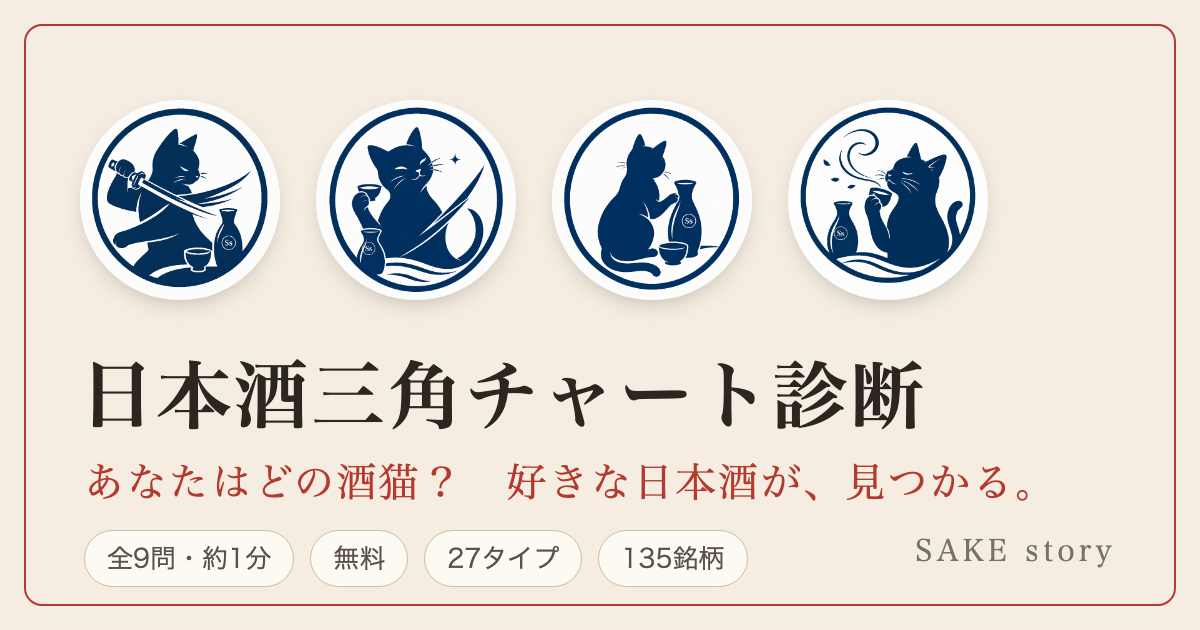
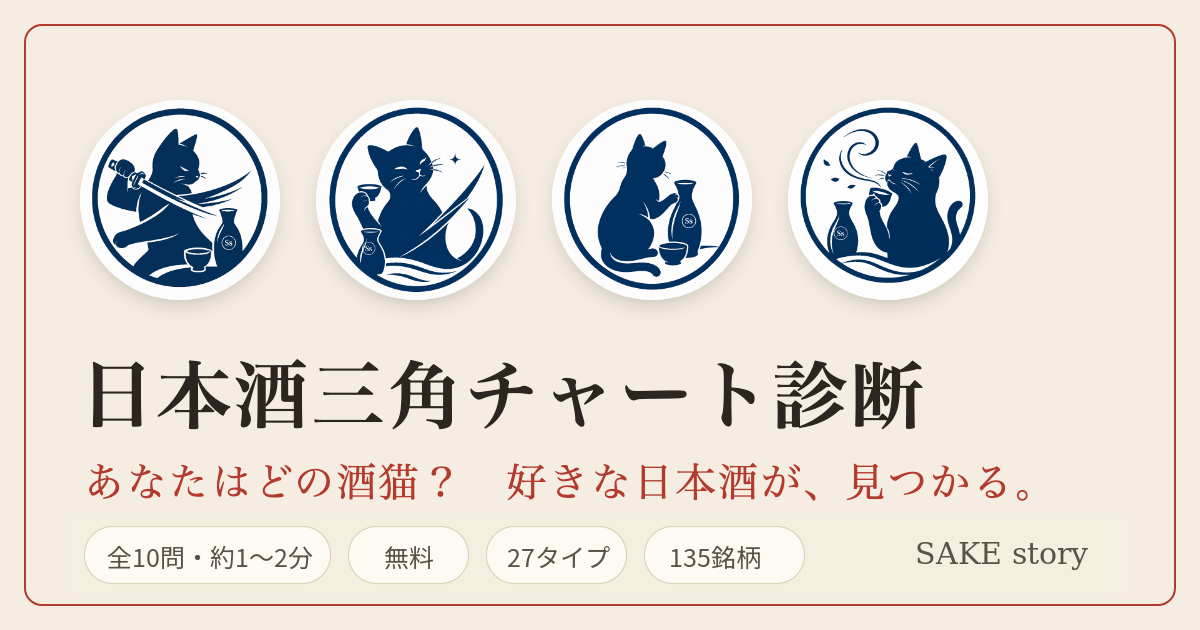
Add files via upload

Changed region(s): [[0.0925, 0.8143, 0.6475, 0.9349], [0.74, 0.8444, 0.925, 0.9048]]

diff --git a/en/index.html b/en/index.html
@@ -1,0 +1,47 @@
+<!doctype html>
+<html lang="en">
+<head>
+  <meta charset="utf-8">
+  <meta name="viewport" content="width=device-width,initial-scale=1">
+  <title>Sake Triangle Chart Quiz — Find Your Sake Cat</title>
+  <meta name="description" content="A free 10-question quiz built from 20 years of helping guests choose sake in Tokyo. Discover your taste on three axes, meet your Sake Cat, and find bottles to try.">
+  <link rel="canonical" href="https://shindan.sake-story.com/en/">
+  <link rel="alternate" hreflang="ja" href="https://shindan.sake-story.com/">
+  <link rel="alternate" hreflang="en" href="https://shindan.sake-story.com/en/">
+  <link rel="alternate" hreflang="zh-Hans" href="https://shindan.sake-story.com/zh-cn/">
+  <link rel="alternate" hreflang="zh-Hant" href="https://shindan.sake-story.com/zh-tw/">
+  <link rel="alternate" hreflang="ko" href="https://shindan.sake-story.com/ko/">
+  <link rel="alternate" hreflang="x-default" href="https://shindan.sake-story.com/">
+  <meta property="og:type" content="website">
+  <meta property="og:site_name" content="SAKE story">
+  <meta property="og:title" content="Which Sake Cat Are You?">
+  <meta property="og:description" content="A free 10-question quiz built from 20 years of helping guests choose sake in Tokyo. Find your taste in 1–2 minutes.">
+  <meta property="og:url" content="https://shindan.sake-story.com/en/">
+  <meta property="og:locale" content="en_US">
+  <meta property="og:locale:alternate" content="ja_JP">
+  <meta property="og:locale:alternate" content="zh_CN">
+  <meta property="og:locale:alternate" content="zh_TW">
+  <meta property="og:locale:alternate" content="ko_KR">
+  <meta property="og:image" content="https://shindan.sake-story.com/ogp-en.png">
+  <meta property="og:image:width" content="1200">
+  <meta property="og:image:height" content="630">
+  <meta property="og:image:alt" content="Which Sake Cat Are You? 10 questions, 1–2 minutes, free.">
+  <meta name="twitter:card" content="summary_large_image">
+  <meta name="twitter:title" content="Which Sake Cat Are You?">
+  <meta name="twitter:description" content="Find the sake that fits your taste in 10 questions.">
+  <meta name="twitter:image" content="https://shindan.sake-story.com/ogp-en.png">
+  <meta http-equiv="refresh" content="0;url=../?lang=en">
+  <script>
+    (function () {
+      var params = new URLSearchParams(location.search);
+      params.set('lang', 'en');
+      var target = new URL('../', location.href);
+      target.search = params.toString();
+      location.replace(target.href);
+    }());
+  </script>
+</head>
+<body>
+  <p><a href="../?lang=en">Start the Sake Triangle Chart Quiz</a></p>
+</body>
+</html>

diff --git a/ko/index.html b/ko/index.html
@@ -1,0 +1,47 @@
+<!doctype html>
+<html lang="ko">
+<head>
+  <meta charset="utf-8">
+  <meta name="viewport" content="width=device-width,initial-scale=1">
+  <title>사케 삼각 차트 진단｜나의 사케냥 찾기</title>
+  <meta name="description" content="도쿄의 사케 바 주인이 20년간 쌓은 경험으로 만든 무료 진단입니다. 10문항으로 깔끔함, 과일향, 진한 맛의 세 축에서 취향에 맞는 사케를 찾아보세요.">
+  <link rel="canonical" href="https://shindan.sake-story.com/ko/">
+  <link rel="alternate" hreflang="ja" href="https://shindan.sake-story.com/">
+  <link rel="alternate" hreflang="en" href="https://shindan.sake-story.com/en/">
+  <link rel="alternate" hreflang="zh-Hans" href="https://shindan.sake-story.com/zh-cn/">
+  <link rel="alternate" hreflang="zh-Hant" href="https://shindan.sake-story.com/zh-tw/">
+  <link rel="alternate" hreflang="ko" href="https://shindan.sake-story.com/ko/">
+  <link rel="alternate" hreflang="x-default" href="https://shindan.sake-story.com/">
+  <meta property="og:type" content="website">
+  <meta property="og:site_name" content="SAKE story">
+  <meta property="og:title" content="당신은 어떤 사케냥인가요?">
+  <meta property="og:description" content="10문항, 약 1~2분. 깔끔함, 과일향, 진한 맛의 세 축에서 취향에 맞는 사케를 찾아보세요.">
+  <meta property="og:url" content="https://shindan.sake-story.com/ko/">
+  <meta property="og:locale" content="ko_KR">
+  <meta property="og:locale:alternate" content="ja_JP">
+  <meta property="og:locale:alternate" content="en_US">
+  <meta property="og:locale:alternate" content="zh_CN">
+  <meta property="og:locale:alternate" content="zh_TW">
+  <meta property="og:image" content="https://shindan.sake-story.com/ogp-ko.png">
+  <meta property="og:image:width" content="1200">
+  <meta property="og:image:height" content="630">
+  <meta property="og:image:alt" content="당신은 어떤 사케냥인가요? 10문항, 약 1~2분, 무료.">
+  <meta name="twitter:card" content="summary_large_image">
+  <meta name="twitter:title" content="당신은 어떤 사케냥인가요?">
+  <meta name="twitter:description" content="10문항으로 내 취향에 맞는 사케를 찾아보세요.">
+  <meta name="twitter:image" content="https://shindan.sake-story.com/ogp-ko.png">
+  <meta http-equiv="refresh" content="0;url=../?lang=ko">
+  <script>
+    (function () {
+      var params = new URLSearchParams(location.search);
+      params.set('lang', 'ko');
+      var target = new URL('../', location.href);
+      target.search = params.toString();
+      location.replace(target.href);
+    }());
+  </script>
+</head>
+<body>
+  <p><a href="../?lang=ko">사케 삼각 차트 진단 시작하기</a></p>
+</body>
+</html>

diff --git a/zh-cn/index.html b/zh-cn/index.html
@@ -1,0 +1,47 @@
+<!doctype html>
+<html lang="zh-Hans">
+<head>
+  <meta charset="utf-8">
+  <meta name="viewport" content="width=device-width,initial-scale=1">
+  <title>清酒三角图测试｜找到你的酒猫</title>
+  <meta name="description" content="东京店主把20年的选酒经验做成免费测试。回答10道题，从清爽、果香、醇厚三个方向找到你的酒猫和适合的清酒。">
+  <link rel="canonical" href="https://shindan.sake-story.com/zh-cn/">
+  <link rel="alternate" hreflang="ja" href="https://shindan.sake-story.com/">
+  <link rel="alternate" hreflang="en" href="https://shindan.sake-story.com/en/">
+  <link rel="alternate" hreflang="zh-Hans" href="https://shindan.sake-story.com/zh-cn/">
+  <link rel="alternate" hreflang="zh-Hant" href="https://shindan.sake-story.com/zh-tw/">
+  <link rel="alternate" hreflang="ko" href="https://shindan.sake-story.com/ko/">
+  <link rel="alternate" hreflang="x-default" href="https://shindan.sake-story.com/">
+  <meta property="og:type" content="website">
+  <meta property="og:site_name" content="SAKE story">
+  <meta property="og:title" content="你是哪只酒猫？">
+  <meta property="og:description" content="回答10道题，约1～2分钟，从清爽、果香、醇厚三个方向找到适合你的清酒。">
+  <meta property="og:url" content="https://shindan.sake-story.com/zh-cn/">
+  <meta property="og:locale" content="zh_CN">
+  <meta property="og:locale:alternate" content="ja_JP">
+  <meta property="og:locale:alternate" content="en_US">
+  <meta property="og:locale:alternate" content="zh_TW">
+  <meta property="og:locale:alternate" content="ko_KR">
+  <meta property="og:image" content="https://shindan.sake-story.com/ogp-zh-cn.png">
+  <meta property="og:image:width" content="1200">
+  <meta property="og:image:height" content="630">
+  <meta property="og:image:alt" content="你是哪只酒猫？10道题、约1～2分钟、免费。">
+  <meta name="twitter:card" content="summary_large_image">
+  <meta name="twitter:title" content="你是哪只酒猫？">
+  <meta name="twitter:description" content="回答10道题，找到适合你的清酒。">
+  <meta name="twitter:image" content="https://shindan.sake-story.com/ogp-zh-cn.png">
+  <meta http-equiv="refresh" content="0;url=../?lang=zh-CN">
+  <script>
+    (function () {
+      var params = new URLSearchParams(location.search);
+      params.set('lang', 'zh-CN');
+      var target = new URL('../', location.href);
+      target.search = params.toString();
+      location.replace(target.href);
+    }());
+  </script>
+</head>
+<body>
+  <p><a href="../?lang=zh-CN">开始清酒三角图测试</a></p>
+</body>
+</html>

diff --git a/zh-tw/index.html b/zh-tw/index.html
@@ -1,0 +1,47 @@
+<!doctype html>
+<html lang="zh-Hant">
+<head>
+  <meta charset="utf-8">
+  <meta name="viewport" content="width=device-width,initial-scale=1">
+  <title>日本酒三角圖測驗｜找到你的酒貓</title>
+  <meta name="description" content="東京店主將20年的選酒經驗做成免費測驗。回答10道題，從清爽、果香、醇厚三個方向找出你的酒貓與適合的日本酒。">
+  <link rel="canonical" href="https://shindan.sake-story.com/zh-tw/">
+  <link rel="alternate" hreflang="ja" href="https://shindan.sake-story.com/">
+  <link rel="alternate" hreflang="en" href="https://shindan.sake-story.com/en/">
+  <link rel="alternate" hreflang="zh-Hans" href="https://shindan.sake-story.com/zh-cn/">
+  <link rel="alternate" hreflang="zh-Hant" href="https://shindan.sake-story.com/zh-tw/">
+  <link rel="alternate" hreflang="ko" href="https://shindan.sake-story.com/ko/">
+  <link rel="alternate" hreflang="x-default" href="https://shindan.sake-story.com/">
+  <meta property="og:type" content="website">
+  <meta property="og:site_name" content="SAKE story">
+  <meta property="og:title" content="你是哪一隻酒貓？">
+  <meta property="og:description" content="回答10道題，約1～2分鐘，從清爽、果香、醇厚三個方向找到適合你的日本酒。">
+  <meta property="og:url" content="https://shindan.sake-story.com/zh-tw/">
+  <meta property="og:locale" content="zh_TW">
+  <meta property="og:locale:alternate" content="ja_JP">
+  <meta property="og:locale:alternate" content="en_US">
+  <meta property="og:locale:alternate" content="zh_CN">
+  <meta property="og:locale:alternate" content="ko_KR">
+  <meta property="og:image" content="https://shindan.sake-story.com/ogp-zh-tw.png">
+  <meta property="og:image:width" content="1200">
+  <meta property="og:image:height" content="630">
+  <meta property="og:image:alt" content="你是哪一隻酒貓？10道題、約1～2分鐘、免費。">
+  <meta name="twitter:card" content="summary_large_image">
+  <meta name="twitter:title" content="你是哪一隻酒貓？">
+  <meta name="twitter:description" content="回答10道題，找到適合你的日本酒。">
+  <meta name="twitter:image" content="https://shindan.sake-story.com/ogp-zh-tw.png">
+  <meta http-equiv="refresh" content="0;url=../?lang=zh-TW">
+  <script>
+    (function () {
+      var params = new URLSearchParams(location.search);
+      params.set('lang', 'zh-TW');
+      var target = new URL('../', location.href);
+      target.search = params.toString();
+      location.replace(target.href);
+    }());
+  </script>
+</head>
+<body>
+  <p><a href="../?lang=zh-TW">開始日本酒三角圖測驗</a></p>
+</body>
+</html>

diff --git a/index.html b/index.html
@@ -10,9 +10,23 @@
 <meta property="og:site_name" content="SAKE story"/>
 <meta property="og:title" content="日本酒三角チャート診断｜あなたはどの酒猫？"/>
 <link rel="canonical" href="https://shindan.sake-story.com/"/>
+<link rel="alternate" hreflang="ja" href="https://shindan.sake-story.com/"/>
+<link rel="alternate" hreflang="en" href="https://shindan.sake-story.com/en/"/>
+<link rel="alternate" hreflang="zh-Hans" href="https://shindan.sake-story.com/zh-cn/"/>
+<link rel="alternate" hreflang="zh-Hant" href="https://shindan.sake-story.com/zh-tw/"/>
+<link rel="alternate" hreflang="ko" href="https://shindan.sake-story.com/ko/"/>
+<link rel="alternate" hreflang="x-default" href="https://shindan.sake-story.com/"/>
 <meta property="og:description" content="約1〜2分・無料。10の質問で日本酒の好みを見える化し、27タイプの酒猫がおすすめ銘柄を案内します。"/>
 <meta property="og:url" content="https://shindan.sake-story.com/"/>
+<meta property="og:locale" content="ja_JP"/>
+<meta property="og:locale:alternate" content="en_US"/>
+<meta property="og:locale:alternate" content="zh_CN"/>
+<meta property="og:locale:alternate" content="zh_TW"/>
+<meta property="og:locale:alternate" content="ko_KR"/>
 <meta property="og:image" content="https://shindan.sake-story.com/ogp.png"/>
+<meta property="og:image:width" content="1200"/>
+<meta property="og:image:height" content="630"/>
+<meta property="og:image:alt" content="日本酒三角チャート診断。全10問、約1〜2分、無料。"/>
 <meta name="twitter:card" content="summary_large_image"/>
 <script type="application/ld+json">
 {
@@ -24,7 +38,7 @@
  "applicationCategory":"LifestyleApplication",
  "operatingSystem":"Web",
  "offers":{"@type":"Offer","price":"0","priceCurrency":"JPY"},
- "inLanguage":["ja","en"],
+ "inLanguage":["ja","en","zh-Hans","zh-Hant","ko"],
  "description":"10の質問で、日本酒の好みを「すっきり・フルーティー・しっかり」の三角チャートに見える化。27タイプの酒猫と、酒場店主が実際に飲んで確かめた銘柄から、あなたに合う一杯が見つかる無料診断。",
  "author":{"@type":"Person","name":"橋野元樹","jobTitle":"SAKE story 店主","description":"東京・五反田の日本酒居酒屋 SAKE story 店主。初代Mr.SAKEグランプリ。飲食歴20年。","url":"https://sake-story.com/","sameAs":["https://x.com/motorkey","https://note.com/mr_sake","https://www.instagram.com/mr.sake_japan/"]},
  "publisher":{"@type":"Organization","name":"SAKE story","url":"https://sake-story.com/"}
@@ -911,9 +925,9 @@ en:{htmlLang:"en",param:"en",langName:"English",romaji:true,
  card:{catIs:"Your Sake Cat is...",profile:"Your Flavor Profile",forYou:"For you \u2014 these four",
   markLegend:"\u5E97 = at SAKE story / \u2606 = specialty shops / \u25CE = sake shops & online / \u25C7 = supermarkets",
   posLegend:"Red = our menu picks near you / Brown = other picks / B&W = your result center",
-  which:"Which Sake Cat are you?",urlLine:"shindan.sake-story.com/?lang=en\u3000#sake"},
+  which:"Which Sake Cat are you?",urlLine:"shindan.sake-story.com/en/\u3000#sake"},
  shareTpl:"My Sake Cat is \u201C{cat}\u201D \u2014 Sake Triangle Chart Quiz \ud83c\udf76\n\u201C{name}\u201D\n\n{taste}\n\nWhich Sake Cat are you?\n{url}\n#sake #SakeTriangleChart",
- shareUrl:"https://shindan.sake-story.com/?lang=en",
+ shareUrl:"https://shindan.sake-story.com/en/",
  reason:{deg:["faint","gentle","solid","generous"],
   heads:{x:["For your love of crisp, clean sake.","If you want a sharp finish, don\u2019t miss this one.","Clear and clean \u2014 right in your lane."],
          y:["For your love of bright aromas.","If juicy, fruity sake is your thing, try this too.","Its lively bouquet sings to your taste."],
@@ -1041,9 +1055,9 @@ zh:{htmlLang:"zh-Hans",param:"zh-CN",langName:"中文（简体）",romaji:false,
  tnameWrap:function(t){return "\uFF5E"+t+"\uFF5E";},
  wordWrap:false,
  chart:{crisp:"清爽",fruity:"果香",rich:"醇厚",you:"你",shape:"形状＝三轴得分　黑白＝你　红＝店内推荐　棕＝居家候选"},
- card:{catIs:"你的酒猫是",profile:"你的清酒口味",forYou:"为你推荐的清酒",markLegend:"店＝可在五反田SAKE story品尝　☆＝专卖店　◎＝酒铺・网购　◇＝超市也能买到",posLegend:"红＝诊断中与你接近、店内可喝的酒款　棕＝其他推荐酒款　黑白＝你的诊断结果中心",which:"你是哪只酒猫？",urlLine:"shindan.sake-story.com/?lang=zh-CN　#清酒 #清酒三角图"},
+ card:{catIs:"你的酒猫是",profile:"你的清酒口味",forYou:"为你推荐的清酒",markLegend:"店＝可在五反田SAKE story品尝　☆＝专卖店　◎＝酒铺・网购　◇＝超市也能买到",posLegend:"红＝诊断中与你接近、店内可喝的酒款　棕＝其他推荐酒款　黑白＝你的诊断结果中心",which:"你是哪只酒猫？",urlLine:"shindan.sake-story.com/zh-cn/　#清酒 #清酒三角图"},
  shareTpl:"在清酒三角图诊断中，我的酒猫是‘{cat}’🍶\n～{name}～\n\n{taste}\n\n推荐酒款：{recs}\n\n你是哪只酒猫？\n{url}\n#清酒 #清酒三角图",
- shareUrl:"https://shindan.sake-story.com/?lang=zh-CN",
+ shareUrl:"https://shindan.sake-story.com/zh-cn/",
  reason:{deg:["隐约","淡淡","明显","满满"],
   heads:{x:["献给喜欢清爽口感的你。","想要利落收尾的话，这一杯也不容错过。","透亮干净的味道，正合你的喜好。"],y:["献给喜欢华丽香气的你。","想享受果实般的甜美，这一杯也值得一试。","多汁的口感，与你的喜好正好呼应。"],z:["献给想细品鲜味与醇厚的你。","想慢慢品味米的鲜味，它也是好搭档。","沉稳扎实的味道，正回应着你的喜好。"]},
   nu:{x:["里头还藏着{d}的利落，后味干净地收住。","收尾带着{d}的利落，干干净净地退场。","{d}的利落，把最后一口轻轻收好。","结尾是{d}的利落，余韵轻盈。"],y:["深处还有{d}的华丽香气，越喝越有乐趣。","{d}的芬芳，会在后头轻轻追上来。","香气{d}而华丽，越喝越见表情。","{d}的香气从深处升起，让人一杯接一杯。"],z:["米的鲜味也{d}地铺开，很配下酒菜。","{d}的米之鲜味，稳稳接住每道菜。","有着{d}的米之鲜味，配着饭菜就活了起来。","{d}的米之鲜味缓缓展开，温柔陪伴料理。"]},
@@ -1161,9 +1175,9 @@ tw:{htmlLang:"zh-Hant",param:"zh-TW",langName:"中文（繁體）",romaji:false,
  tnameWrap:function(t){return "\uFF5E"+t+"\uFF5E";},
  wordWrap:false,
  chart:{crisp:"清爽",fruity:"果香",rich:"醇厚",you:"你",shape:"形狀＝三軸得分　黑白＝你　紅＝店內推薦　棕＝居家候選"},
- card:{catIs:"你的酒貓是",profile:"你的清酒口味",forYou:"為你推薦的清酒",markLegend:"店＝可在五反田SAKE story品嚐　☆＝專賣店　◎＝酒鋪・網購　◇＝超市也能買到",posLegend:"紅＝診斷中與你接近、店內可喝的酒款　棕＝其他推薦酒款　黑白＝你的診斷結果中心",which:"你是哪隻酒貓？",urlLine:"shindan.sake-story.com/?lang=zh-TW　#清酒 #清酒三角圖"},
+ card:{catIs:"你的酒貓是",profile:"你的清酒口味",forYou:"為你推薦的清酒",markLegend:"店＝可在五反田SAKE story品嚐　☆＝專賣店　◎＝酒鋪・網購　◇＝超市也能買到",posLegend:"紅＝診斷中與你接近、店內可喝的酒款　棕＝其他推薦酒款　黑白＝你的診斷結果中心",which:"你是哪隻酒貓？",urlLine:"shindan.sake-story.com/zh-tw/　#清酒 #清酒三角圖"},
  shareTpl:"在清酒三角圖診斷中，我的酒貓是「{cat}」🍶\n～{name}～\n\n{taste}\n\n推薦酒款：{recs}\n\n你是哪隻酒貓？\n{url}\n#清酒 #清酒三角圖",
- shareUrl:"https://shindan.sake-story.com/?lang=zh-TW",
+ shareUrl:"https://shindan.sake-story.com/zh-tw/",
  reason:{deg:["隱約","淡淡","明顯","滿滿"],
   heads:{x:["獻給喜歡清爽口感的你。","想要俐落收尾的話，這一杯也不容錯過。","透亮乾淨的味道，正合你的喜好。"],y:["獻給喜歡華麗香氣的你。","想享受果實般的甜美，這一杯也值得一試。","多汁的口感，與你的喜好正好呼應。"],z:["獻給想細品鮮味與醇厚的你。","想慢慢品味米的鮮味，它也是好搭檔。","沉穩紮實的味道，正回應著你的喜好。"]},
   nu:{x:["裡頭還藏著{d}的俐落，後味乾淨地收住。","收尾帶著{d}的俐落，乾乾淨淨地退場。","{d}的俐落，把最後一口輕輕收好。","結尾是{d}的俐落，餘韻輕盈。"],y:["深處還有{d}的華麗香氣，越喝越有樂趣。","{d}的芬芳，會在後頭輕輕追上來。","香氣{d}而華麗，越喝越見表情。","{d}的香氣從深處升起，讓人一杯接一杯。"],z:["米的鮮味也{d}地鋪開，很配下酒菜。","{d}的米之鮮味，穩穩接住每道菜。","有著{d}的米之鮮味，配著飯菜就活了起來。","{d}的米之鮮味緩緩展開，溫柔陪伴料理。"]},
@@ -1281,9 +1295,9 @@ ko:{htmlLang:"ko",param:"ko",langName:"한국어",romaji:true,
  tnameWrap:function(t){return "\uFF5E"+t+"\uFF5E";},
  wordWrap:true,
  chart:{crisp:"깔끔함",fruity:"과일향",rich:"진한 맛",you:"당신",shape:"모양＝3축 점수　흑백＝당신　빨강＝가게 추천　갈색＝집에서 마실 후보"},
- card:{catIs:"당신의 사케냥은",profile:"당신의 사케 취향",forYou:"당신을 위한 추천 사케",markLegend:"店＝고탄다 SAKE story에서 마실 수 있음　☆＝전문점　◎＝주류점・온라인　◇＝마트에서도 구매 가능",posLegend:"빨강＝진단상 가까운 가게의 사케　갈색＝그 밖의 추천 사케　흑백＝당신의 진단 결과 중심",which:"당신은 어떤 사케냥인가요?",urlLine:"shindan.sake-story.com/?lang=ko　#사케 #사케삼각차트"},
+ card:{catIs:"당신의 사케냥은",profile:"당신의 사케 취향",forYou:"당신을 위한 추천 사케",markLegend:"店＝고탄다 SAKE story에서 마실 수 있음　☆＝전문점　◎＝주류점・온라인　◇＝마트에서도 구매 가능",posLegend:"빨강＝진단상 가까운 가게의 사케　갈색＝그 밖의 추천 사케　흑백＝당신의 진단 결과 중심",which:"당신은 어떤 사케냥인가요?",urlLine:"shindan.sake-story.com/ko/　#사케 #사케삼각차트"},
  shareTpl:"사케 삼각 차트 진단에서 제 사케냥은 ‘{cat}’이었어요🍶\n～{name}～\n\n{taste}\n\n추천 사케: {recs}\n\n당신은 어떤 사케냥인가요?\n{url}\n#사케 #사케삼각차트",
- shareUrl:"https://shindan.sake-story.com/?lang=ko",
+ shareUrl:"https://shindan.sake-story.com/ko/",
  reason:{deg:["아주 옅은","은은한","뚜렷한","넉넉한"],
   heads:{x:["깔끔한 목넘김을 좋아하는 당신에게.","산뜻한 끝맛을 찾는다면 이 한 잔도 놓칠 수 없어요.","투명한 맛이 당신의 취향에 다가갑니다."],y:["화사한 향을 좋아하는 당신에게.","과일 같은 달콤함을 즐긴다면 이 한 잔도 좋아요.","과즙감 있는 맛이 당신의 취향과 어울립니다."],z:["감칠맛과 깊은 맛을 즐기고 싶은 당신에게.","쌀의 감칠맛을 천천히 음미한다면 좋은 동반자예요.","묵직하게 자리 잡은 맛이 당신의 취향에 응답합니다."]},
   nu:{x:["안쪽에 {d} 산뜻함도 숨어 있어, 끝맛이 스르르 빠집니다.","끝맛에는 {d} 산뜻함. 깔끔하게 마무리됩니다.","{d} 산뜻함이 마지막을 가볍게 정리해 줍니다.","마무리는 {d} 산뜻함. 여운이 가볍습니다."],y:["안쪽에 {d} 화사한 향도 있어, 마실수록 즐거워집니다.","{d} 화사한 향이 뒤따라 올라옵니다.","향은 {d} 화사함. 마실수록 표정이 살아납니다.","안쪽에서 {d} 향이 피어올라 잔이 자꾸 비워집니다."],z:["쌀의 {d} 감칠맛도 얹혀 있어 음식과 잘 어울립니다.","{d} 쌀의 감칠맛이 요리를 든든히 받쳐 줍니다.","쌀의 감칠맛은 {d} 정도. 식사와 나란히 두면 살아납니다.","{d} 쌀의 감칠맛이 퍼지며 요리 곁에 머뭅니다."]},